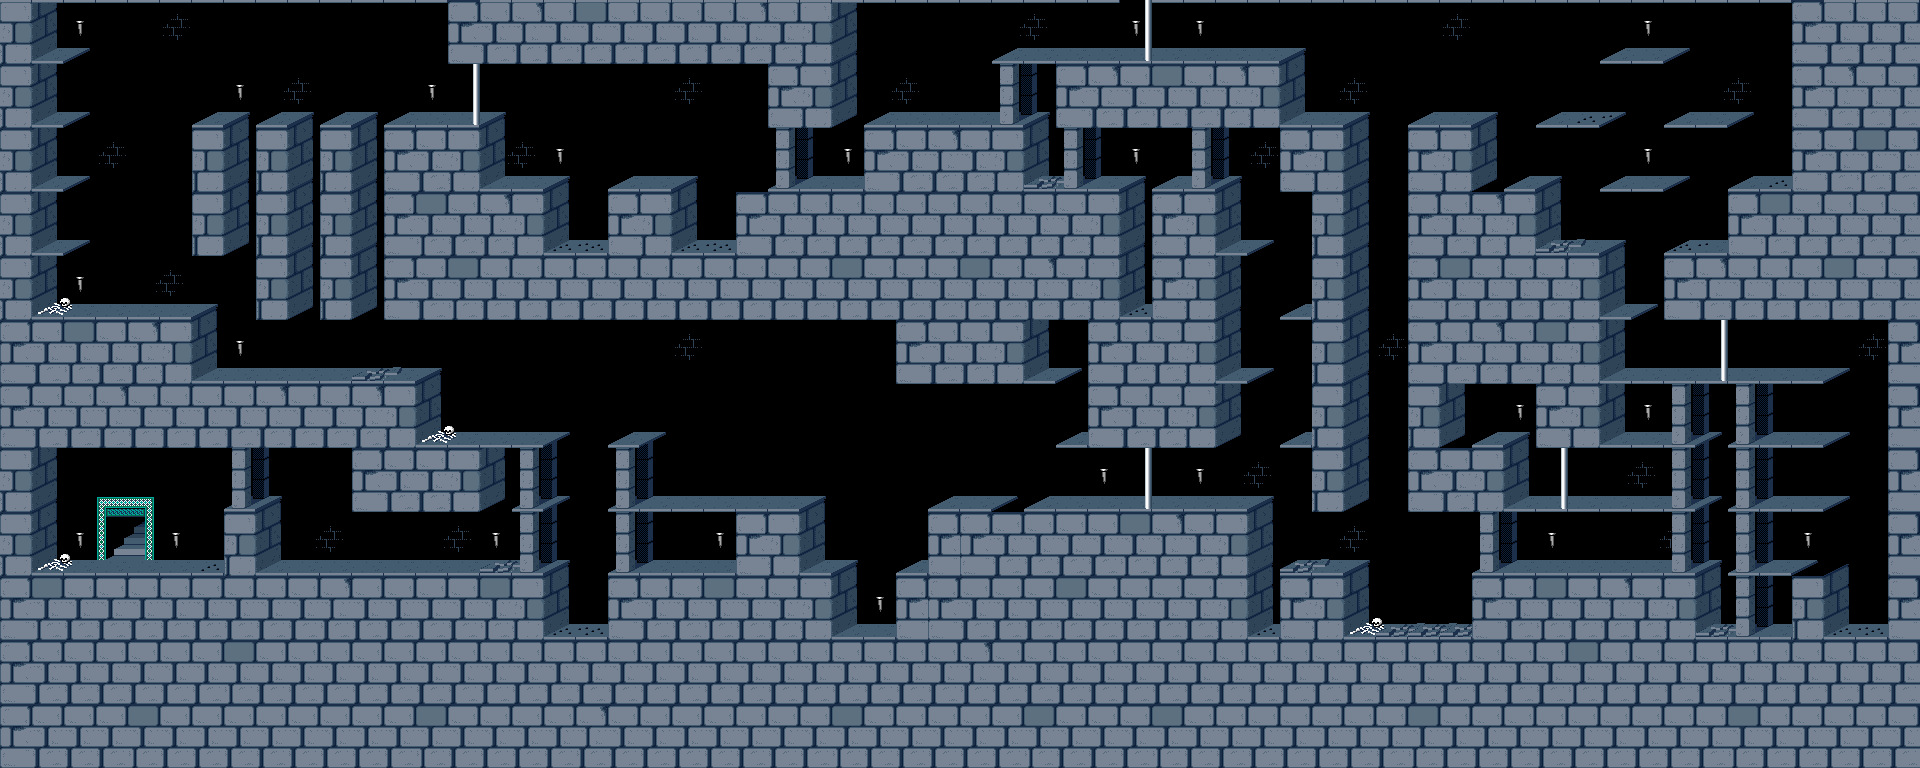
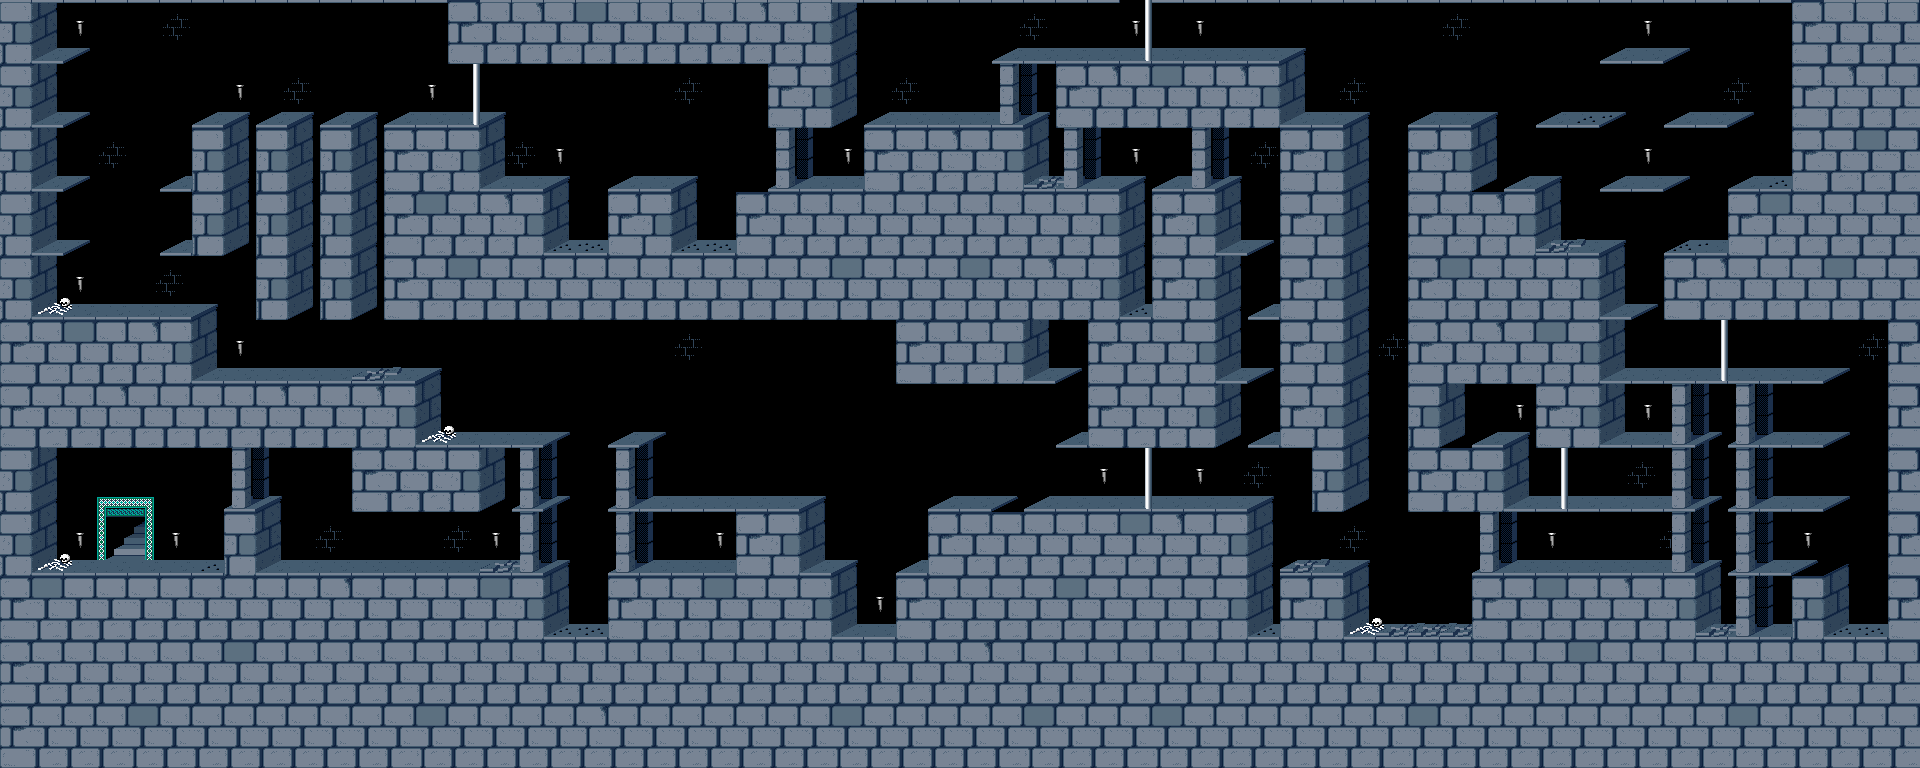
update things

diff --git a/2DGame/01-TBE/01-TBE/Scene.cpp b/2DGame/01-TBE/01-TBE/Scene.cpp
@@ -9,8 +9,8 @@
 #define SCREEN_X 0
 #define SCREEN_Y 0
 
-#define INIT_PLAYER_X_TILES 34
-#define INIT_PLAYER_Y_TILES -1
+#define INIT_PLAYER_X_TILES 1
+#define INIT_PLAYER_Y_TILES 8.9
 
 #define NUM_VIZIERS 2
 #define NUM_FATS 0
@@ -82,10 +82,10 @@ Scene::~Scene()
 void Scene::init()
 {
 	initShaders();
-	background = TileMap::createTileMap("levels/level1_1.txt", glm::vec2(SCREEN_X, SCREEN_Y), texProgram);
-	ground_wall = TileMap::createTileMap("levels/level1_2.txt", glm::vec2(SCREEN_X, SCREEN_Y), texProgram);
-	other_column_back = TileMap::createTileMap("levels/level1_3.txt", glm::vec2(SCREEN_X, SCREEN_Y), texProgram);
-	other_column_front = TileMap::createTileMap("levels/level1_4.txt", glm::vec2(SCREEN_X, SCREEN_Y), texProgram);
+	background = TileMap::createTileMap("levels/level2_back.txt", glm::vec2(SCREEN_X, SCREEN_Y), texProgram);
+	ground_wall = TileMap::createTileMap("levels/level2_ground.txt", glm::vec2(SCREEN_X, SCREEN_Y), texProgram);
+	other_column_back = TileMap::createTileMap("levels/level2_back_col.txt", glm::vec2(SCREEN_X, SCREEN_Y), texProgram);
+	other_column_front = TileMap::createTileMap("levels/level2_front_col.txt", glm::vec2(SCREEN_X, SCREEN_Y), texProgram);
 
 	torchs = new Torch[NUM_TORCHS];
 	for (int i = 0; i < NUM_TORCHS; i++)
@@ -164,7 +164,7 @@ void Scene::init()
 	doors[3].setPosition(glm::vec2(1696, 320));
 	doors[4].setPosition(glm::vec2(1536, 448));
 
-	doors[0].setTimeOpened(10000);
+	doors[0].setTimeOpened(12000);
 	doors[1].setTimeOpened(5000);
 	doors[2].setTimeOpened(15000);
 	doors[3].setTimeOpened(25000);
@@ -268,11 +268,11 @@ void Scene::update(int deltaTime)
 	for (int i = 0; i < NUM_FATS; i++)
 		fats[i].update(deltaTime);
 
-	int panelX = int((player->getPosition().x-1+32) / 320.f);
+	int panelX = int((player->getPosition().x-4+32) / 320.f);
 	int panelY = int((player->getPosition().y+64) / 192.f);
 	life->setPosition(glm::vec2(panelX * 32.f * 10, panelY * 64.f * 3 + 135));
 	life->update(deltaTime);
-	projection = glm::ortho(panelX * 32.f * 10, panelX * 32.f * 10 + 32.f * 10, panelY * 64.f * 3 + 64.f * 3 + 7, panelY * 64.f * 3);
+	projection = glm::ortho(panelX * 32.f * 10, (panelX + 1) * 32.f * 10, (panelY + 1) * 64.f * 3 + 7, panelY * 64.f * 3);
 }
 
 void Scene::render()

diff --git a/2DGame/01-TBE/01-TBE/Menu.cpp b/2DGame/01-TBE/01-TBE/Menu.cpp
@@ -6,7 +6,7 @@
 #include "Menu.h"
 #include "Game.h"
 
-#define CD 100
+#define CD 200
 
 enum MenuAnims
 {
@@ -28,6 +28,7 @@ void Menu::init()
 {
 	initShaders();
 	menuON = true;
+	initON = false;
 	bplay = true;
 
 	spritesheet.setWrapS(GL_MIRRORED_REPEAT);
@@ -74,7 +75,7 @@ void Menu::update(int deltaTime)
 		switch (anim){
 		case OPT1:
 			if (Game::instance().getSpecialKey(GLUT_KEY_DOWN)) { cd = 0; sprite->changeAnimation(OPT2); }
-			else if (Game::instance().getKey(13)) { cd = 0; sprite->changeAnimation(INIT); }
+			else if (Game::instance().getKey(13)) { cd = 0; initON = true; sprite->changeAnimation(INIT); }
 			break;
 		case OPT2:
 			if (Game::instance().getSpecialKey(GLUT_KEY_DOWN)) { cd = 0; sprite->changeAnimation(OPT3); }
@@ -97,7 +98,7 @@ void Menu::update(int deltaTime)
 			if (Game::instance().getKey(13)) { cd = 0; sprite->changeAnimation(OPT1); }
 			break;
 		case INIT:
-			if (Game::instance().getKey(13)) menuON = false;
+			if (Game::instance().getKey(13)) { menuON = false; initON = false; }
 			break;
 		case END:
 			if (Game::instance().getKey(13)) { cd = 0; sprite->changeAnimation(OPT1); }
@@ -149,9 +150,14 @@ void Menu::initShaders()
 	fShader.free();
 }
 
-bool Menu::getMenuON()
+bool Menu::getBmenu()
 {
 	return menuON;
+}
+
+bool Menu::getBinit()
+{
+	return initON;
 }
 
 bool Menu::getBplay()

diff --git a/2DGame/01-TBE/01-TBE/Potion.cpp b/2DGame/01-TBE/01-TBE/Potion.cpp
@@ -41,14 +41,17 @@ void Potion::update(int deltaTime)
 
 	if (anim == DOWN && (py == sy - 8) && (px - sx) >= -26 && (px - sx) < 25)
 	{
-		player->setPotionInRange(true, px < sx + 5 ? "right" : "left");
+		if (player->isDrinking()){
+			player->setPotionInRange(false, px < sx + 5 ? "right" : "left");
+			sprite->changeAnimation(TAKEN);
+		}
+		else{
+			player->setPotionInRange(true, px < sx + 5 ? "right" : "left");
+		}
+	
 	}
-	else if (anim == DOWN){
+	else if (anim == DOWN && abs(px-sx)>25 && abs(px-sx)<50){
 		player->setPotionInRange(false, px < sx + 5 ? "right" : "left");
-	}
-	if (player->isDrinking()){
-		player->setPotionInRange(false, px < sx + 5 ? "right" : "left");
-		sprite->changeAnimation(TAKEN);
 	}
 
 	sprite->setPosition(glm::vec2(float(tileMapDispl.x + posPotion.x), float(tileMapDispl.y + posPotion.y)));

diff --git a/2DGame/01-TBE/01-TBE/Game.cpp b/2DGame/01-TBE/01-TBE/Game.cpp
@@ -7,22 +7,25 @@ void Game::init()
 {
 	bPlay = true;
 	glClearColor(0.3f, 0.3f, 0.3f, 1.0f);
-	menuON = true;
+	bmenu = true;
+	binit = false;
 	menu.init();
 }
 
 bool Game::update(int deltaTime)
 {
-	if (menuON)
+	if (bmenu && !binit)
 	{
-		if (!menu.getMenuON())
+		if (!binit && menu.getBinit())
 		{
-			menuON = false;
+			binit = true;
 			scene.init();
 		}
 		bPlay = menu.getBplay();
 	}
-	if (menuON) menu.update(deltaTime);
+	if (binit) bmenu = menu.getBmenu();
+
+	if (bmenu) menu.update(deltaTime);
 	else scene.update(deltaTime);
 	
 	return bPlay;
@@ -31,7 +34,7 @@ bool Game::update(int deltaTime)
 void Game::render()
 {
 	glClear(GL_COLOR_BUFFER_BIT | GL_DEPTH_BUFFER_BIT);
-	if (menuON) menu.render();
+	if (bmenu) menu.render();
 	else scene.render();
 }
 

diff --git a/2DGame/01-TBE/01-TBE/Menu.h b/2DGame/01-TBE/01-TBE/Menu.h
@@ -21,7 +21,8 @@ public:
 	void init();
 	void update(int deltaTime);
 	void render();
-	bool getMenuON();
+	bool getBmenu();
+	bool getBinit();
 	bool getBplay();
 
 private:
@@ -32,7 +33,7 @@ private:
 	Texture spritesheet;
 	Sprite *sprite;
 	glm::mat4 projection;
-	bool menuON, bplay;
+	bool menuON, initON, bplay;
 	float cd;
 };
 

diff --git a/2DGame/01-TBE/01-TBE/Game.h b/2DGame/01-TBE/01-TBE/Game.h
@@ -45,7 +45,7 @@ private:
 	bool keys[256], specialKeys[256]; // Store key states so that 
 	                                  // we can have access at any time
 	Menu menu;
-	bool menuON;
+	bool bmenu,binit;
 };
 
 
